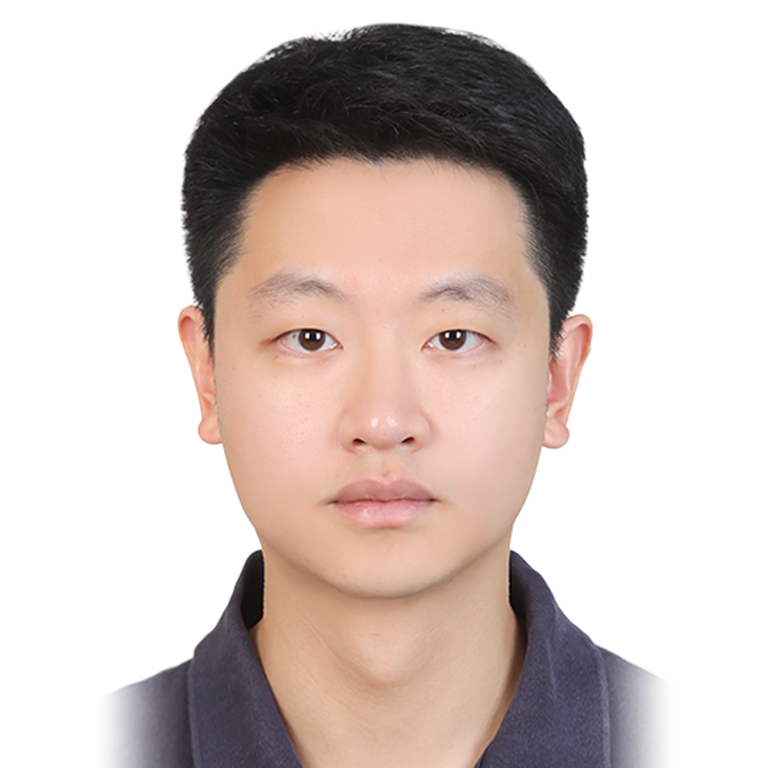
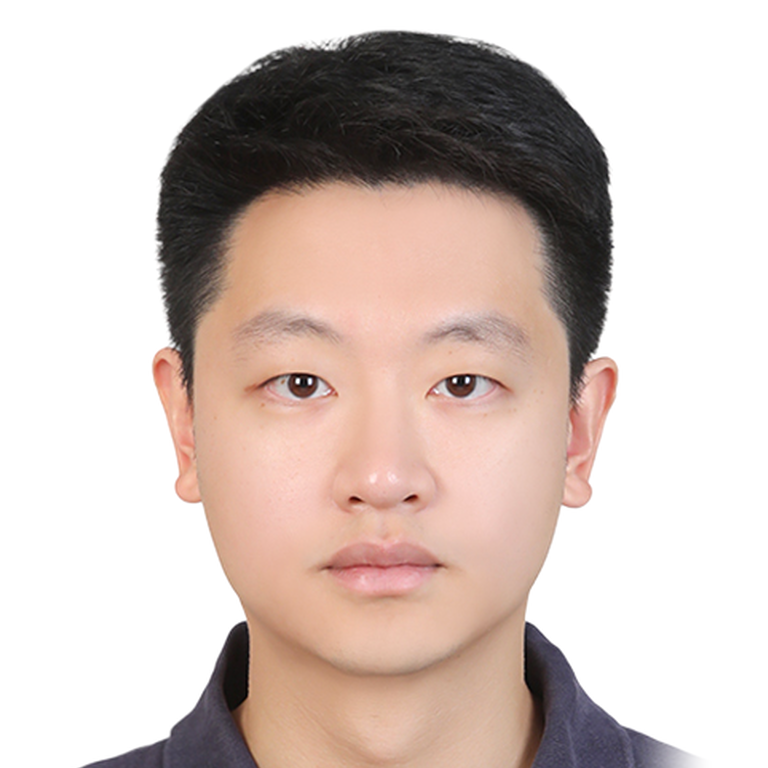
Byungyeon Yun at 1.35x, the middle ground
Between this morning's 1.20x, with his shoulders fading at both sides, and
the 1.54x the client found ridiculous, he chose 1.35x from a sheet of
steps: the eye line 12% lower so his hair stays in the tile, and only a
trace of fade at his right shoulder. ENLARGED gains a 'fixed' form for a
chosen size where the least that removes the fade is too much, and the
report names the edges that really still fade.

Claude-Session: https://claude.ai/code/session_01XG348wN5ByY34urU5UZMf6

Changed region(s): [[0.0938, 0.0312, 0.9062, 1.0], [0.5, 0.125, 0.5312, 0.1562], [0.4688, 0.4062, 0.5, 0.4375]]

diff --git a/tools/cutout-headshots.py b/tools/cutout-headshots.py
@@ -142,7 +142,7 @@ Where it landed in September 2026:
 Andrew's crown stops about 3% below the top rather than 4%: the reach and the headroom
 between them use the whole of REACH_DROP, and the report says so.
 
-THE EXCEPTIONS are two photographs too tight for any of this, each enlarged past the limit
+THE EXCEPTIONS are three photographs too tight for any of this, each enlarged past the limit
 because the client chose a larger face over a fade (October 2026), with the trade shown on a
 sheet beside a normally framed tile:
 - Nicolle's selfie cuts through her hair at the left, which THE CROP clears at 1.35x.
@@ -150,18 +150,20 @@ sheet beside a normally framed tile:
   him by stretching reached his jaw, which is not a trade this makes on someone's face;
   enlarging stretches nothing. (Filling the tile this way was declined once, before the
   fades were weighed against it.)
-Each is listed in ENLARGED, and a looser photograph makes its entry unnecessary. Byungyeon's
-passport photo cuts the shoulders 18% in from both sides and was enlarged the same way, 1.54x;
-in a passport photo that read as a giant close-up, so it was taken back out, and his sides
-fade. His crown stops about 3% below the top rather than 4%, as Andrew's does.
+- Byungyeon's passport photo cuts the shoulders 18% in from both sides. Removing the fade
+  took 1.54x, which in a passport photo read as a giant close-up, so his is fixed at the step
+  the client picked from a sheet running from 1.20x to 1.54x: 1.35x, with the eye line 12%
+  lower (THE HEADROOM's doing, so the tile keeps his hair). A trace of fade stays on his right
+  shoulder.
+Each is listed in ENLARGED, and a looser photograph makes its entry unnecessary.
 
 THE EDGE FADE is what is left: wherever a photograph's own edge still cuts through the
 person, the figure fades to nothing over EDGE_FADE as it approaches that cut. The fade is
 measured from the cut itself — the stretch of the border the matte actually touches — not
 from the whole edge, so a photo cut at the shoulder does not also fade the cheek above it.
 Before the stretch and the reach, nine photos faded like this, and they looked different
-from everyone else. Since October 2026 only Byungyeon's sides do: Allison's is cropped, and
-Nicolle's and Ryan's are THE EXCEPTIONS. Before that, two shared fades were tried to hide
+from everyone else. Since October 2026 only a trace of Byungyeon's right shoulder does:
+Allison's is cropped, and his, Nicolle's and Ryan's are THE EXCEPTIONS. Before that, two shared fades were tried to hide
 the fading few, and both went:
 - A single vignette tuned so every one of those cuts fell where it had already faded
   out. Ryan's chest and Byungyeon's shoulders force it to finish just below everybody's
@@ -216,11 +218,12 @@ HEADROOM = 0.04   # THE HEADROOM: the least room between the crown and the tile'
 # 6 October 2026), because the fade these photographs otherwise need was judged worse than a
 # face larger than everyone else's. Each replaces REACH_ZOOM, and REACH_DROP where given,
 # for that person, and the reach and the headroom still take the least that removes the fade
-# and keeps the crown in. Remove an entry when a looser photograph arrives: it will not need
-# it. Byungyeon's was one for an hour: enlarged 1.54x with the eye line 18% lower so the tile
-# kept his hair, his passport photo became a giant close-up the client called ridiculous, and
-# the fade at his sides was the lesser evil.
-ENLARGED = {'nicolle-desilva': {'zoom': 1.4}, 'ryan-baker': {'zoom': 1.6}}
+# and keeps the crown in. 'fixed' instead sets the enlargement outright, for a photograph
+# where the least that removes the fade is too much: Byungyeon's needed 1.54x, which turned
+# his passport photo into a giant close-up the client called ridiculous, so his is the step
+# the client picked from a sheet of them, 1.35x, which leaves a trace of fade on his right
+# shoulder. Remove an entry when a looser photograph arrives: it will not need it.
+ENLARGED = {'byungyeon-yun': {'fixed': 1.35, 'drop': 0.2}, 'nicolle-desilva': {'zoom': 1.4}, 'ryan-baker': {'zoom': 1.6}}
 
 
 def pictured():
@@ -315,7 +318,8 @@ def frame(slug):
     if found is None:
         sys.exit(f'{slug}: no face found on the matte')
     (fx, fy, fw, fh), eye_y, how = found
-    s = FACE * T / fh
+    fixed = ENLARGED.get(slug, {}).get('fixed')
+    s = FACE * T / fh * (fixed or 1)
     eye = EYE
 
     # Which edges of the photo the person runs into. A side the person meets above the chin
@@ -361,7 +365,7 @@ def frame(slug):
         for _ in range(30):
             lo, hi = (lo, (lo + hi) / 2) if ok((lo + hi) / 2) else ((lo + hi) / 2, hi)
         return hi
-    limit = ENLARGED.get(slug, {}).get('zoom', REACH_ZOOM)
+    limit = 1.0 if fixed else ENLARGED.get(slug, {}).get('zoom', REACH_ZOOM)
     drop_limit = ENLARGED.get(slug, {}).get('drop', REACH_DROP)
     zoom_at = lambda t: 1 + (limit - 1) * t
 
@@ -548,12 +552,12 @@ def main():
               f"{reach:16}{r['headroom']:>5.0%}  {pct(r['cuts']):22}{pct(r['extended']):30}{r['lift']:.3f}")
         if r['face_kept'] < 0.95:
             warn.append(f"{s} ({r['face_kept']:.0%})")
-        if r['unreached']:
-            loose.append(f"{s} ({', '.join(r['unreached'])})")
+        if [k for k in r['unreached'] if k in r['cuts']]:
+            loose.append(f"{s} ({', '.join(k for k in r['unreached'] if k in r['cuts'])})")
         if [k for k in r['not_shoulder'] if k not in r['cropped'] and k in r['cuts']]:
             beside.append(f"{s} ({', '.join(k for k in r['not_shoulder'] if k not in r['cropped'] and k in r['cuts'])})")
         if s in ENLARGED:
-            enlarged.append(f"{s} ({r['zoom']:.2f}x)")
+            enlarged.append(f"{s} ({ENLARGED[s].get('fixed') or r['zoom']:.2f}x{', fixed' if ENLARGED[s].get('fixed') else ''})")
         if r['headroom'] < HEADROOM - 0.0005:
             crowded.append(f"{s} ({r['headroom']:.1%})")
     if loose:

diff --git a/wordpress-handoff/sections/leadership.md b/wordpress-handoff/sections/leadership.md
@@ -124,11 +124,11 @@ empty tile and a photographed one sit on one colour.
 Do not re-crop them — no Media Library "crop to square", no theme `object-position`. The
 framing is what makes photographs by thirty-odd different photographers read as one team, and
 it is already done. They are 6–36 KB each. A photograph that stops a little short of where
-the framing wants it is stretched or enlarged within limits. Two photographs too tight for
-those limits (Nicolle DeSilva's and Ryan Baker's) are enlarged further, by the client's
-choice, rather than fade where the photo ends. One still fades: Byungyeon Yun's passport photo,
-at its sides, until a looser original replaces it. All of it is baked into the file, not an
-effect to reproduce.
+the framing wants it is stretched or enlarged within limits. Three photographs too tight for
+those limits (Byungyeon Yun's, Nicolle DeSilva's and Ryan Baker's) are enlarged further, by
+the client's choice, rather than fade where the photo ends; Byungyeon's, at a size chosen to
+stay close to everyone else's, keeps a trace of fade at his right shoulder. All of it is baked
+into the file, not an effect to reproduce.
 
 They are made in two steps, and the split is on purpose. `tools/cutout-headshots.py`
 does the slow part once — a matting model, face and eye detection, the framing — and
